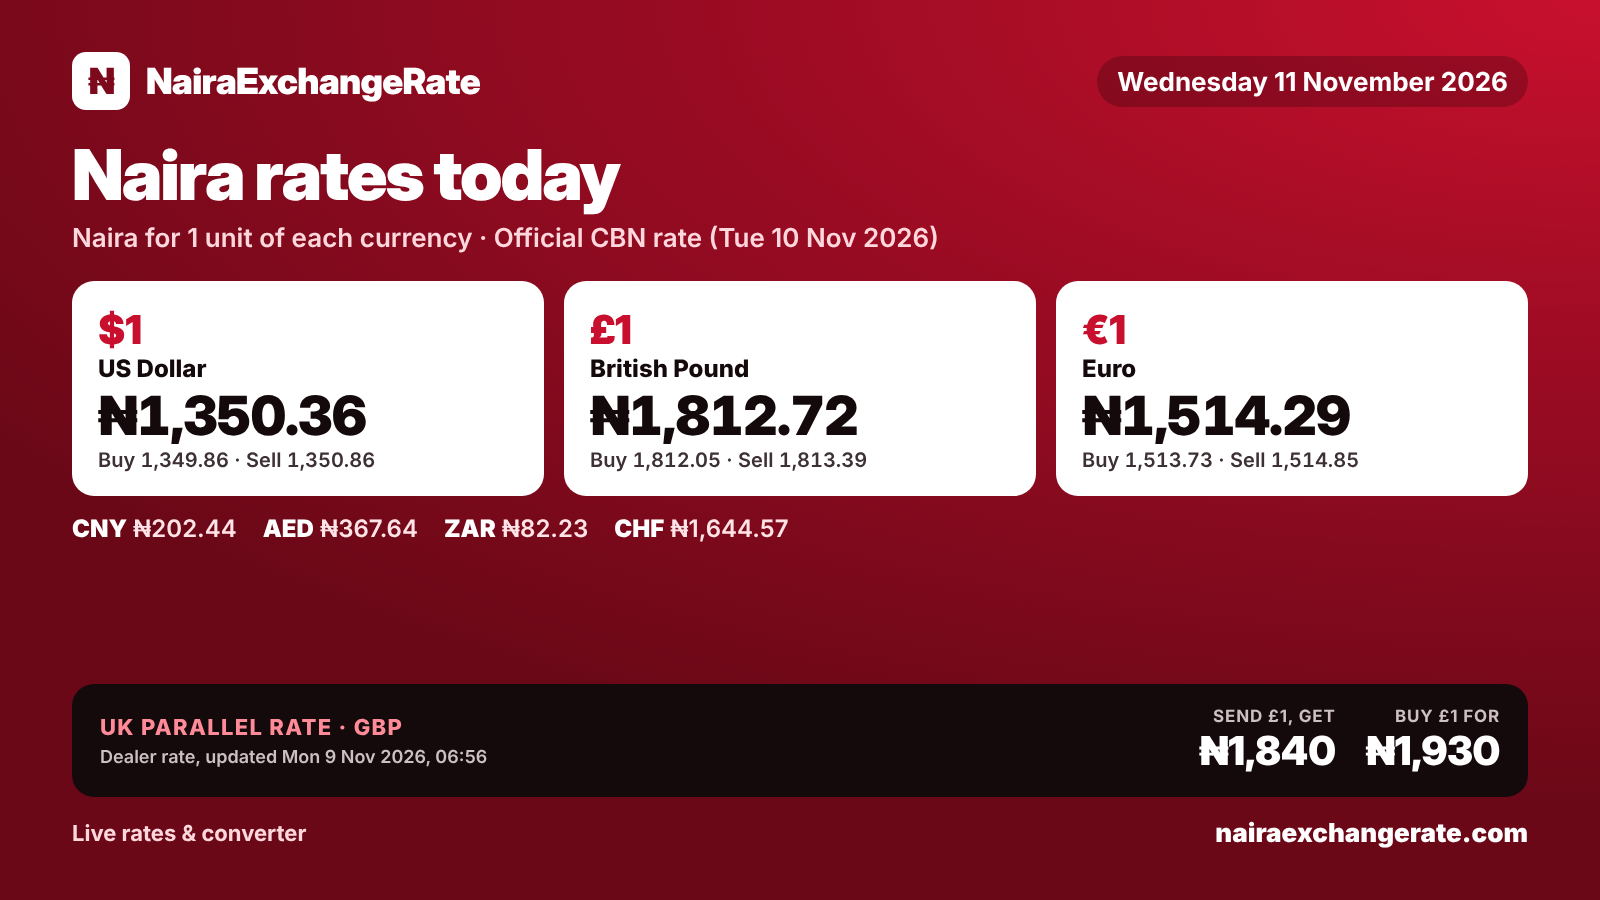
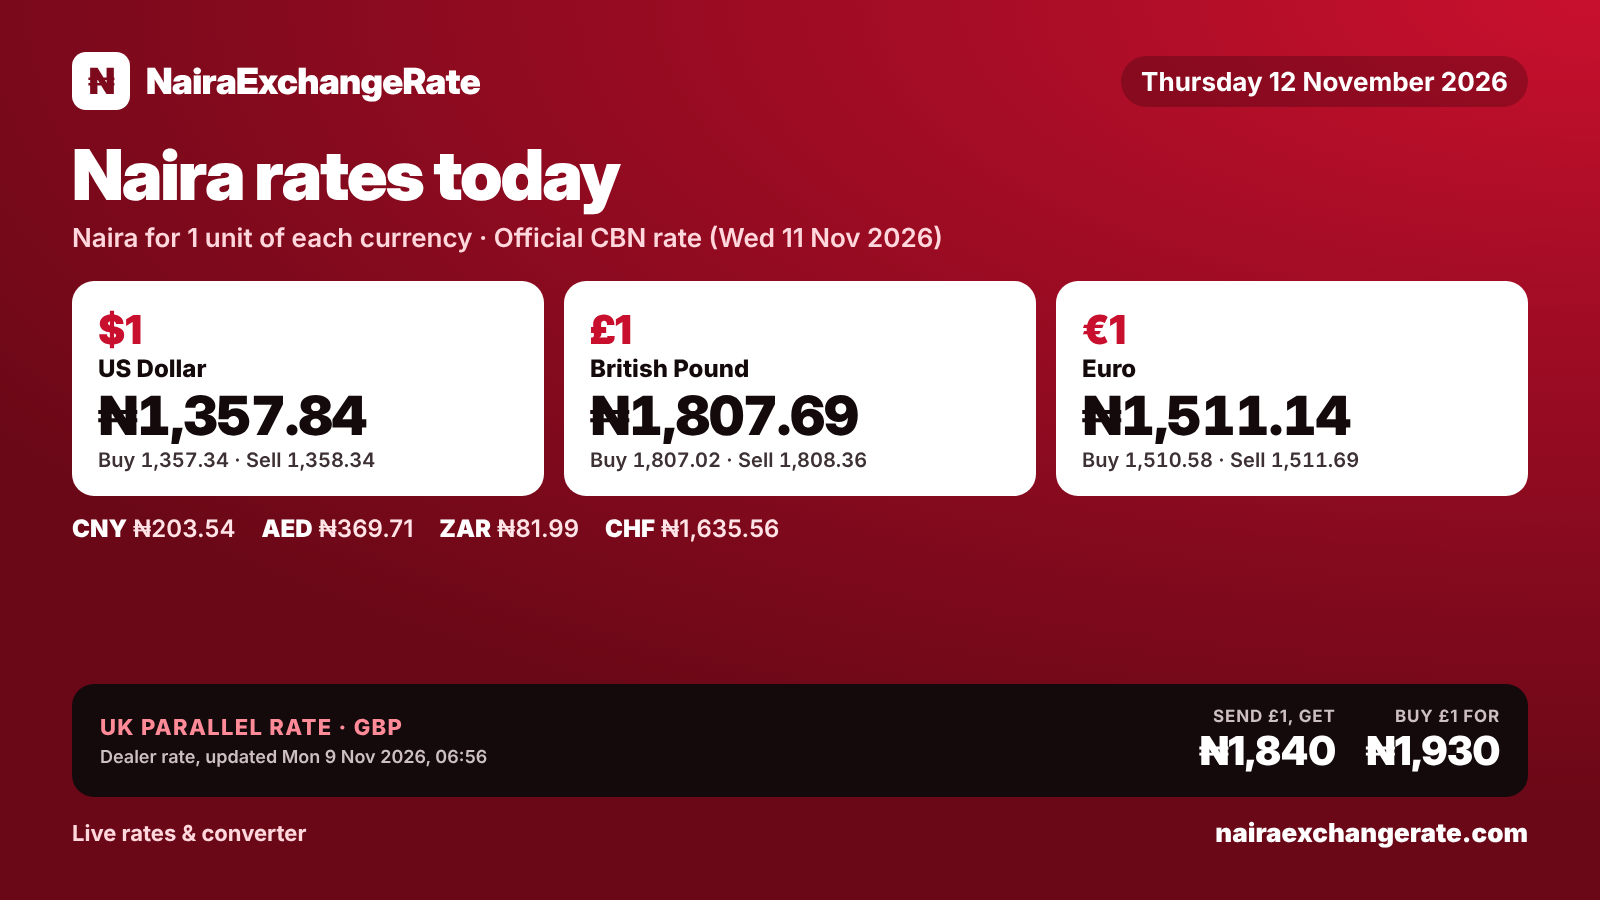
Daily update 2026-11-12
Claude-Session: https://claude.ai/code/session_01NfXuJwGKMqPSDcj2RtU93y

diff --git a/index.html b/index.html
@@ -338,61 +338,89 @@ footer .wrap{padding-block:22px 34px;font-size:.84rem;color:var(--muted);display
     }
   ],
   "cbn": {
-    "date": "2026-11-10",
+    "date": "2026-11-11",
     "rates": {
       "xof": {
-        "buy": 2.2816,
-        "middle": 2.2916,
-        "sell": 2.3016
+        "buy": 2.2885,
+        "middle": 2.2985,
+        "sell": 2.3085
       },
       "cny": {
-        "buy": 202.3655,
-        "middle": 202.4404,
-        "sell": 202.5154
+        "buy": 203.4655,
+        "middle": 203.5404,
+        "sell": 203.6154
       },
       "eur": {
-        "buy": 1513.7315,
-        "middle": 1514.2922,
-        "sell": 1514.8529
+        "buy": 1510.582,
+        "middle": 1511.1385,
+        "sell": 1511.6949
       },
       "jpy": {
-        "buy": 8.5331,
-        "middle": 8.5363,
-        "sell": 8.5395
+        "buy": 8.5222,
+        "middle": 8.5254,
+        "sell": 8.5285
       },
       "sar": {
-        "buy": 359.6171,
-        "middle": 359.7503,
-        "sell": 359.8835
+        "buy": 361.6387,
+        "middle": 361.7719,
+        "sell": 361.9051
       },
       "zar": {
-        "buy": 82.2042,
-        "middle": 82.2346,
-        "sell": 82.2651
+        "buy": 81.9624,
+        "middle": 81.9926,
+        "sell": 82.0228
       },
       "chf": {
-        "buy": 1643.9638,
-        "middle": 1644.5728,
-        "sell": 1645.1817
+        "buy": 1634.9536,
+        "middle": 1635.5559,
+        "sell": 1636.1582
       },
       "gbp": {
-        "buy": 1812.0503,
-        "middle": 1812.7215,
-        "sell": 1813.3927
+        "buy": 1807.0247,
+        "middle": 1807.6904,
+        "sell": 1808.356
       },
       "usd": {
-        "buy": 1349.8587,
-        "middle": 1350.3587,
-        "sell": 1350.8587
+        "buy": 1357.3385,
+        "middle": 1357.8385,
+        "sell": 1358.3385
       },
       "aed": {
-        "buy": 367.5085,
-        "middle": 367.6446,
-        "sell": 367.7808
+        "buy": 369.5751,
+        "middle": 369.7112,
+        "sell": 369.8474
       }
     }
   },
   "news": [
+    {
+      "source": "Business Post",
+      "title": "Dangote Refinery IPO Attracts N5.85trn Bids from 3.8 million Subscribers",
+      "summary": "Dangote Refinery's share offer drew about ₦5.85 trillion in bids against a ₦2.15 trillion offer size, from nearly 3.8 million applicants.",
+      "url": "https://businesspost.ng/economy/dangote-refinery-ipo-attracts-n5-85trn-bids-from-3-8-million-subscribers/",
+      "date": "2026-11-11"
+    },
+    {
+      "source": "BusinessDay",
+      "title": "Nigeria's economic recovery faces fresh test from rising energy costs, expensive financing – S&P",
+      "summary": "S&P says a firmer naira and easing inflation help Nigeria, but expects interest costs to eat 22.2% of government revenue in 2026.",
+      "url": "https://businessday.ng/business-economy/article/nigerias-economic-recovery-faces-fresh-test-from-rising-energy-costs-expensive-financing-sp/",
+      "date": "2026-11-11"
+    },
+    {
+      "source": "Vanguard",
+      "title": "Dollar to Naira exchange rate today, November 11, 2026",
+      "summary": "The naira traded around ₦1,419/$ on the parallel market against about ₦1,350 at the official window, a gap of roughly ₦69.",
+      "url": "https://www.vanguardngr.com/2026/11/dollar-to-naira-exchange-rate-today-november-11-2026/",
+      "date": "2026-11-11"
+    },
+    {
+      "source": "THEWILL",
+      "title": "NGX Sheds ₦293bn As All-Share Index Declines 0.18 Percent",
+      "summary": "The NGX All-Share Index slipped 0.18% to 251,861.24, trimming market value by ₦293 billion to ₦163.53 trillion.",
+      "url": "https://thewillnews.com/ngx-sheds-%E2%82%A6293bn-as-all-share-index-declines-0-18-percent/",
+      "date": "2026-11-11"
+    },
     {
       "source": "Blueprint",
       "title": "Senate passes bill to bring big fintechs, non-bank financial institutions under CBN regulation",
@@ -406,34 +434,6 @@ footer .wrap{padding-block:22px 34px;font-size:.84rem;color:var(--muted);display
       "summary": "Petrol now sells for about ₦1,325–₦1,420 a litre in Lagos and Abuja as the competition regulator warns Dangote and marketers.",
       "url": "https://www.legit.ng/business-economy/energy/1740600-fccpc-warns-dangote-petrol-marketers-fuel-prices-emerge-lagos-abuja/",
       "date": "2026-11-10"
-    },
-    {
-      "source": "BusinessDay",
-      "title": "Nigeria's biggest firms' income tax payments rise 73.31% to N3.412trn on reforms",
-      "summary": "23 NGX 30 companies paid ₦3.41 trillion in income tax in nine months, up 73% on last year, led by Aradel and Seplat.",
-      "url": "https://businessday.ng/business-economy/article/nigerias-biggest-firms-income-tax-payments-rise-73-31-to-n3-412trn-on-reforms/",
-      "date": "2026-11-10"
-    },
-    {
-      "source": "Vanguard",
-      "title": "Dollar to Naira exchange rate today, November 10, 2026",
-      "summary": "The dollar averaged about ₦1,346.51 on the official market while street rates ranged ₦1,410–₦1,430.",
-      "url": "https://www.vanguardngr.com/2026/11/dollar-to-naira-exchange-rate-today-november-10-2026/",
-      "date": "2026-11-10"
-    },
-    {
-      "source": "BusinessDay",
-      "title": "Naira gap widens to N69 as parallel market rate falls to N1,410",
-      "summary": "The gap between official and street dollar rates widened to N69 (5.13%) on Monday, with parallel dealers quoting N1,410–N1,430 per dollar.",
-      "url": "https://businessday.ng/business-economy/article/naira-gap-widens-to-n69-as-parallel-market-rate-falls-to-n1410",
-      "date": "2026-11-09"
-    },
-    {
-      "source": "THEWILL",
-      "title": "NGX Gains ₦2.32trn As All-Share Index Advances 1.44 Percent",
-      "summary": "Nigerian stocks rebounded on Monday as the All-Share Index rose 1.44% to 252,456.74 points, lifting market value to ₦163.92 trillion.",
-      "url": "https://thewillnews.com/ngx-gains-%E2%82%A62-32trn-as-all-share-index-advances-1-44-percent/",
-      "date": "2026-11-09"
     }
   ],
   "whatsappChannel": "https://whatsapp.com/channel/0029VbEJwXxCnA7nV3kcN73I"
